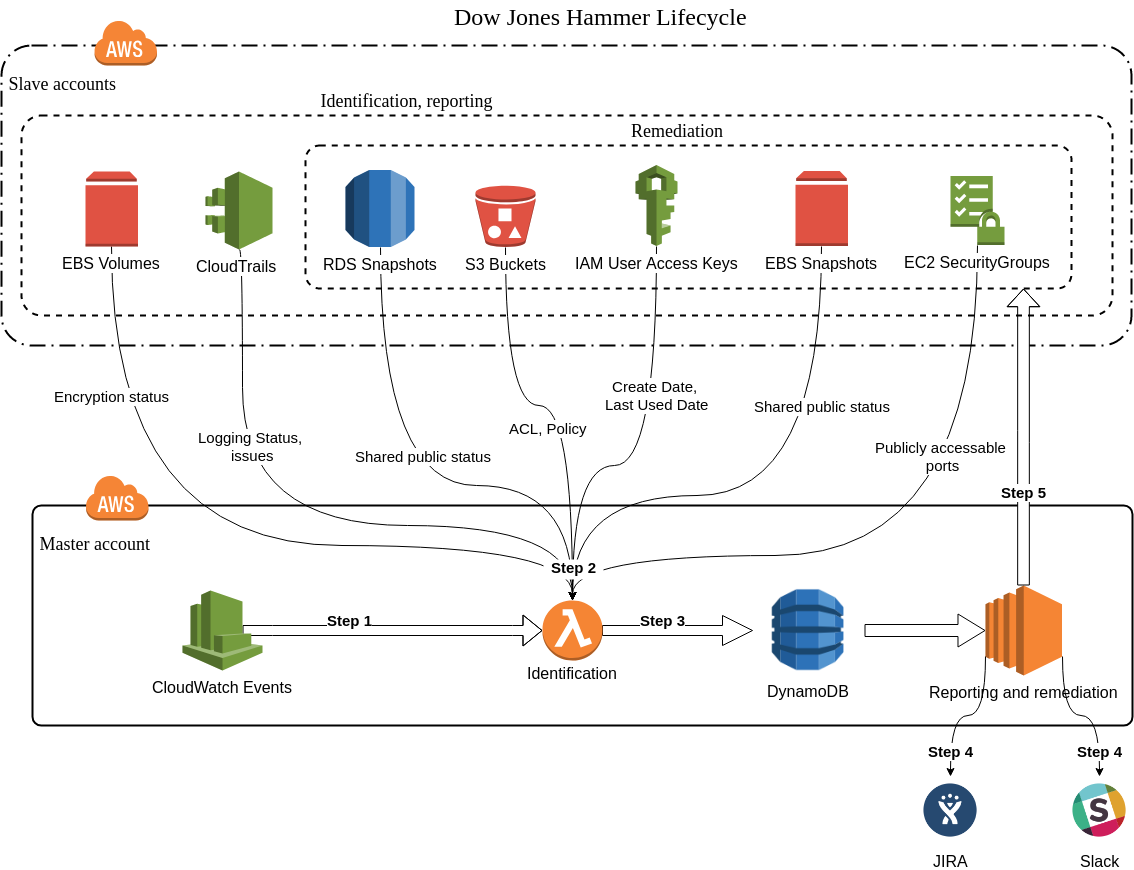
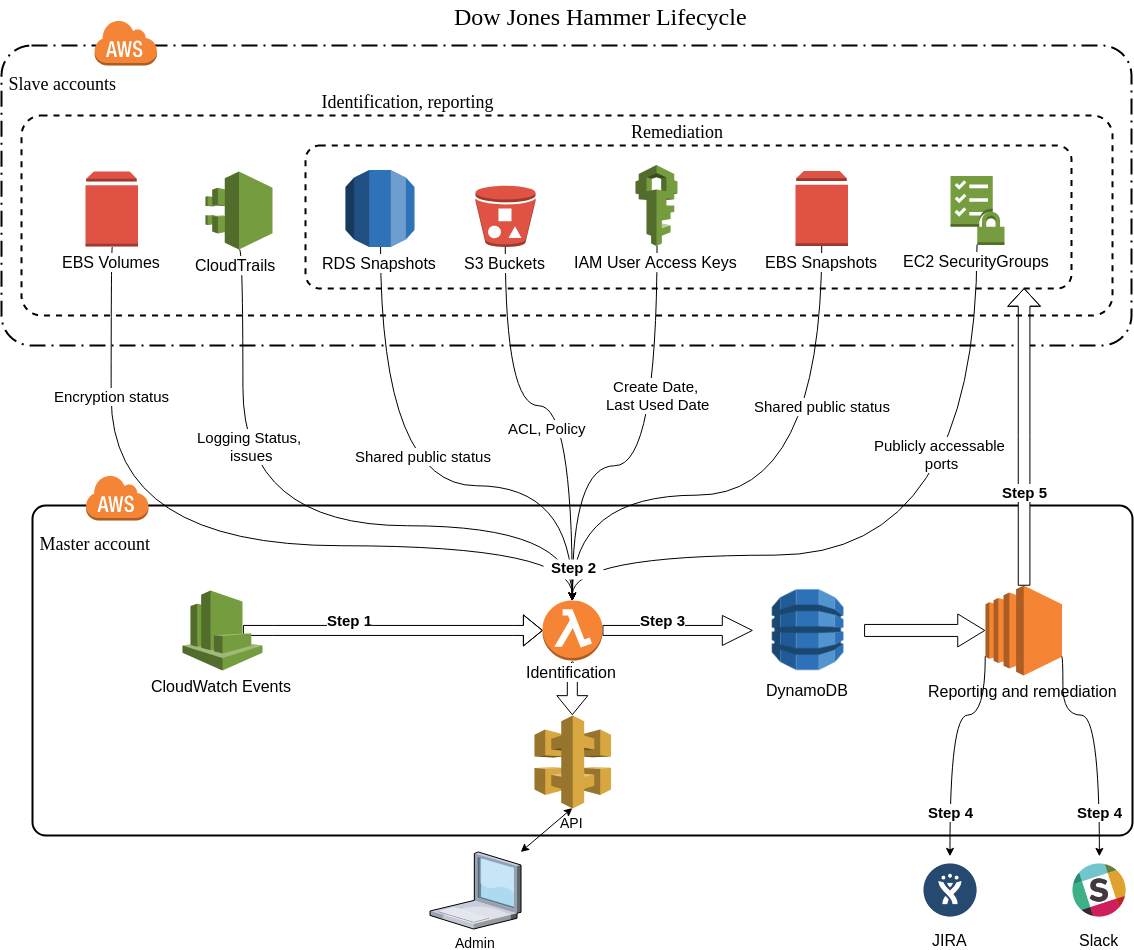
add API docs

diff --git a/docs/pages/deployment_cloudformation.md b/docs/pages/deployment_cloudformation.md
@@ -31,6 +31,8 @@ Number of stacks to deploy depends on the desired functionality:
 * Identification only;
 * Identification, Reporting and Remediation.
 
+Additionally you can deploy API stack to use Dow Jones Hammer capabilities via REST API.
+
 Choose json templates according to desired functionality from the table below and deploy them **in the same order** as they appear in the table:
 
 1. Log in to the AWS Management Console and select **CloudFormation** in the **Services** menu.
@@ -46,10 +48,13 @@ Choose json templates according to desired functionality from the table below an
 | IAM identification role             | `deployment/cf-templates/identification-role.json`        | **+**          | **+**                    |
 | DynamoDB tables                     | `deployment/cf-templates/ddb.json`                        | **+**          | **+**                    |
 | Identification functionality        | `deployment/cf-templates/identification.json`             | **+**          | **+**                    |
+| API functionality                   | `deployment/cf-templates/api.json`                        | **+**          | **+**                    |
 | IAM reporting/remediation role      | `deployment/cf-templates/reporting-remediation-role.json` |                | **+**                    |
 | Reporting/remediation functionality | `deployment/cf-templates/reporting-remediation.json`      |                | **+**                    |
 
 **Note**: you should deploy `DynamoDB tables`, `Identification functionality` and `Reporting/remediation functionality` CloudFormation stacks to the same AWS region as you configured in [aws.region](/editconfig.html#11-master-aws-account-settings) parameter of **config.json** file.
+
+**Note**: note down **ApiUrl** value from the [API functionality](#316-api-functionality) stack [outputs](https://docs.aws.amazon.com/AWSCloudFormation/latest/UserGuide/cfn-console-view-stack-data-resources.html) to access Dow Jones Hammer REST API.
 
 **Note:** in case you intend to use Dow Jones Hammer reporting/remediation functionality:
 1. Note down the value for the **LambdaLogsForwarderArn** from the [Identification functionality](#313-identification-functionality) stack [outputs](https://docs.aws.amazon.com/AWSCloudFormation/latest/UserGuide/cfn-console-view-stack-data-resources.html) and provide it as an input parameter for the [Reporting/remediation functionality](#315-reportingremediation-functionality) stack.
@@ -105,8 +110,16 @@ You will need to set the following parameters:
 * **Subnet**: the ID of the Subnet for deployment of the reporting/remediation EC2.
 * **ReportingRemediationIAMRole**: the name of the reporting/remediation IAM role for the Dow Jones Hammer reporting/remediation functionality in master account. Use the same value as for **ReportingRemediationIAMRole** parameter in [IAM Reporting/Remediation Role](#314-iam-reportingremediation-role) step.
 * **LambdaLogForwarderArn**: the ARN of the Lambda log forwarding function created during `Identification Functionality` deployment. Use the [output](https://docs.aws.amazon.com/AWSCloudFormation/latest/UserGuide/cfn-console-view-stack-data-resources.html) **LambdaLogsForwarderArn** value from [Identification Functionality](#313-identification-functionality) step.
-* **HammerEngineBucket**: the name of the S3 bucket you [created](configuredeploy_overview.html#24-create-s3-buckets-for-hammer) to deploy Dow Jones Hammer.
-* **HammerEnginePath**: the relative path to the EC2 package with Dow Jones Hammer reporting and remediation sources. The default value is **reporting-remediation.zip**.
+* **SourceS3Bucket**: the name of the S3 bucket you [created](configuredeploy_overview.html#24-create-s3-buckets-for-hammer) to deploy Dow Jones Hammer.
+* **SourceAMIInfo**: the relative path to the Lambda package with AMI autodetect code. The default value is **ami-info.zip**.
+* **SourceReportingRemediation**: the relative path to the EC2 package with Dow Jones Hammer reporting and remediation sources. The default value is **reporting-remediation.zip**.
+
+#### 3.1.6. API functionality
+
+* **ResourcesPrefix**: the prefix for all Dow Jones Hammer resources. The default value is **hammer-**.
+* **SourceS3Bucket**: the name of [pre-created](configuredeploy_overview.html#24-create-s3-buckets-for-hammer) S3 deployment bucket.
+* **SourceApi**: the relative path to the Lambda package that implements REST API. The default value is **api.zip**.
+* **IdentificationIAMRole**: the name of identification IAM role for the Dow Jones Hammer identification functionality in master account. Use the same value as for **IdentificationIAMRole** parameter in [IAM Identification Role](#311-iam-identification-role) step. The default value is **cloudsec-master-id**.
 
 ## 4. Deploy CloudFormation Stacks to the Slave AWS Accounts
 

diff --git a/docs/pages/api.md b/docs/pages/api.md
@@ -1,0 +1,128 @@
+---
+title: API Usage
+sidebar: mydoc_sidebar
+permalink: api.html
+---
+
+## 1. Preliminary Steps
+
+You can use Dow Jones Hammer REST API to perform ad-hoc scans of controlled environments. To use it you need to:
+* deploy [CloudFormation API functionality](deployment_cloudformation.html#316-api-functionality) or ensure that [Terraform API module](deployment_terraform.html#3-edit-terraform-configuration-files) is included in `terraform.tf`
+* note down **ApiUrl** output variable of [Terraform](deployment_terraform.html#5-check-terraform-output-variables) / [CloudFormation API stack](deployment_cloudformation.html#3-deploy-cloudformation-stacks-to-the-master-aws-account)
+* [inject](configuredeploy_overview.html#41-access-credentials-storage) Dow Jones Hammer API token to credentials DynamoDB table
+
+## 2. Request
+
+Use `curl` or any other tool for making HTTP queries. You need to perform POST request to **ApiUrl** and provide:
+* API token in `Auth` header
+* JSON payload as a POST data
+* (optional) set `application/json` content type.
+
+Request example:
+```
+$ curl -H 'Auth: ieng4aechooth4Ahzou2beeg8phohz' \
+       -H 'Content-Type: application/json' \
+       https://boafxucxrw.execute-api.eu-west-1.amazonaws.com/LATEST/scan \
+       -d '
+{
+    "account_id": "1234567890",
+    "region": "us-east-1",
+    "security_feature": "secgrp_unrestricted_access"
+}'
+       
+```
+
+JSON payload should include:
+* **account_id**: controlled AWS account ID to check. It must be account ID from the `aws.accounts` [configuration option](editconfig.html#11-master-aws-account-settings)
+* **security_feature**: the name of the security feature to scan. This name should be the same as configuration section name for each supported security feature (f.e. - `secgrp_unrestricted_access`, `user_inactivekeys`, `s3_bucket_policy`, etc) 
+* (optional) **region**: for regional services, such as security groups, EBS/RDS snapshots, etc, you need to provide region to check issues in. If it is omitted, the default region (where Dow Jones Hammer was deployed) will be checked
+* (optional) **tags**: dictionary with tags to limit checks by tags attached to resources
+* (optional) **ids**: list with resource ids to limit checks
+
+
+Request example of checking two S3 buckets public ACLs:
+```
+$ curl -H 'Auth: ieng4aechooth4Ahzou2beeg8phohz' \
+       -H 'Content-Type: application/json' \
+       https://boafxucxrw.execute-api.eu-west-1.amazonaws.com/LATEST/scan \
+       -d '
+{
+    "account_id": "1234567890",
+    "region": "us-east-1",
+    "security_feature": "s3_bucket_acl",
+    "ids": [
+        "BucketName1",
+        "BucketName2"
+    ]
+}'
+```
+
+Request example of checking public EBS snapshots only for resources tagged with `prod` for `accounting` and `staffing` business units:
+```
+$ curl -H 'Auth: ieng4aechooth4Ahzou2beeg8phohz' \
+       -H 'Content-Type: application/json' \
+       https://boafxucxrw.execute-api.eu-west-1.amazonaws.com/LATEST/scan \
+       -d '
+{
+    "account_id": "1234567890",
+    "region": "us-east-1",
+    "security_feature": "s3_bucket_acl",
+    "tags": {
+        "bu": ["accounting", "staffing"],
+        "env": "prod"
+    }
+}'
+```
+
+## 3. Response
+
+Dow Jones Hammer API returns responses in JSON format. If scan was successful it returns scan result in the key with the security feature name (as it was in `security_feature` request parameter).
+
+Insecure services response example:
+```
+{
+    "secgrp_unrestricted_access": [
+        {
+            "id": "sg-123456",
+            "name": "ssh-test1",
+            "status": "open_partly",
+            "permissions": [
+                {
+                    "ports": "22",
+                    "protocol": "tcp",
+                    "cidr": "1.1.1.1/32"
+                }
+            ]
+        },
+        {
+            "id": "sg-654321",
+            "name": "ssh-test2",
+            "status": "open_completely",
+            "permissions": [
+                {
+                    "ports": "22",
+                    "protocol": "tcp",
+                    "cidr": "0.0.0.0/0"
+                }
+            ]
+        }
+    ]
+}
+```
+
+S3 bucket ACL response example:
+```
+{
+    "s3_bucket_acl": [
+        {
+            "name": "test-bucket",
+            "public_acls": {
+                "AllUsers": [
+                    "READ",
+                    "READ_ACP"
+                ]
+            }
+        }
+    ]
+}
+```

diff --git a/docs/pages/configuredeploy_overview.md b/docs/pages/configuredeploy_overview.md
@@ -99,7 +99,11 @@ In case you have chosen to deploy Dow Jones Hammer with Terraform, proceed as fo
 
 ### 4.1. Access Credentials Storage
 
-To configure JIRA and/or Slack integration, you should inject corresponding access credentials to the credentials DynamoDB table, defined in `credentials` section of `config.json`.
+To configure:
+* JIRA and/or Slack integration
+* API token
+
+you should inject corresponding access credentials to the credentials and values DynamoDB table, defined in `credentials` section of `config.json`.
 Default table name is `hammer-credentials`.
 
 To inject the access credentials, run the script `ddb_inject_credentials.py` from the `hammer/tools/` folder:
@@ -108,6 +112,7 @@ hammer/tools $ export AWS_PROFILE=hammer-master
 hammer/tools $ export AWS_DEFAULT_REGION="<hammer-master-region>"
 hammer/tools $ python3.6 ddb_inject_credentials.py \
                             --table "<table name from config.json>" \
+                            --hammer-api-token "<Hammer API token>" \
                             --slack-api-token "<slack API token>" \
                             --jira-access-token-secret "<JIRA secret for access token>" \
                             --jira-access-token "<JIRA access token>" \
@@ -120,6 +125,9 @@ In case operation was successful you should get output with injected credentials
 Successfully injected 'slack' credentials: {
     "api_token": "<slack API token>"
 }
+Successfully injected 'api' credentials: {
+    "token": "Hammer API token"
+}
 Successfully injected 'jira' credentials: {
     "oauth": {
         "consumer_key": "<JIRA consumer key>",
@@ -130,4 +138,6 @@ Successfully injected 'jira' credentials: {
 }
 ```
 
-You can omit Slack or JIRA parameters in case you are not going to use corresponding integration functionality.
+You can omit any of Slack, JIRA or API parameters in case you are not going to use corresponding integration functionality.
+
+As for Hammer API token, you can provide your own randomly generated token or let script to generate it for you. To do so just omit value for `--hammer-api-token` parameter. 

diff --git a/docs/pages/deployment_terraform.md b/docs/pages/deployment_terraform.md
@@ -11,6 +11,7 @@ You should perform the following steps to deploy Dow Jones Hammer using Terrafor
 2. Configure AWS CLI access credentials
 3. Edit Terraform configuration files
 4. Launch Dow Jones Hammer deployment
+5. Check Terraform output variables
 
 ## 1. Preliminary Steps
 
@@ -207,4 +208,18 @@ To launch Dow Jones Hammer deployment, run the following commands in ```hammer/d
 ```
 terraform init
 terraform apply
+```
+
+## 5. Check Terraform output variables
+
+After successful Terraform deployment a few variables, you may be interested in, will be shown back:
+* **ApiUrl**: URL for quering Dow Jones Hammer REST API
+* **ReportingRemediationPrivateIP**: private IP address of reporting and remediation EC2 instance  
+* **ReportingRemediationPublicIP**: public IP address of reporting and remediation EC2 instance
+
+Sample output:
+``` 
+ApiUrl = https://qosfsduzasrh.execute-api.<region>.amazonaws.com/LATEST/scan
+ReportingRemediationPrivateIP = 172.16.x.x
+ReportingRemediationPublicIP = w.x.y.z
 ```

diff --git a/docs/index.md b/docs/index.md
@@ -13,6 +13,7 @@ As soon as you have deployed Dow Jones Hammer, it detects [typical AWS services 
 
 Optionally, you can:
 * enable CSV reporting with detected vulnerabilities to designated S3 bucket;
+* use Dow Jones Hammer API to perform ad-hoc scans of controlled environments;
 * integrate Dow Jones Hammer with JIRA and/or Slack. After detecting an issue, Dow Jones Hammer can raise a JIRA ticket for a specific person and/or send a Slack message to a specific Slack channel or directly to a Slack user;
 * configure Dow Jones Hammer so that it can automatically remediate certain issues it had detected, if these issues have persisted for a given timeframe.
 
